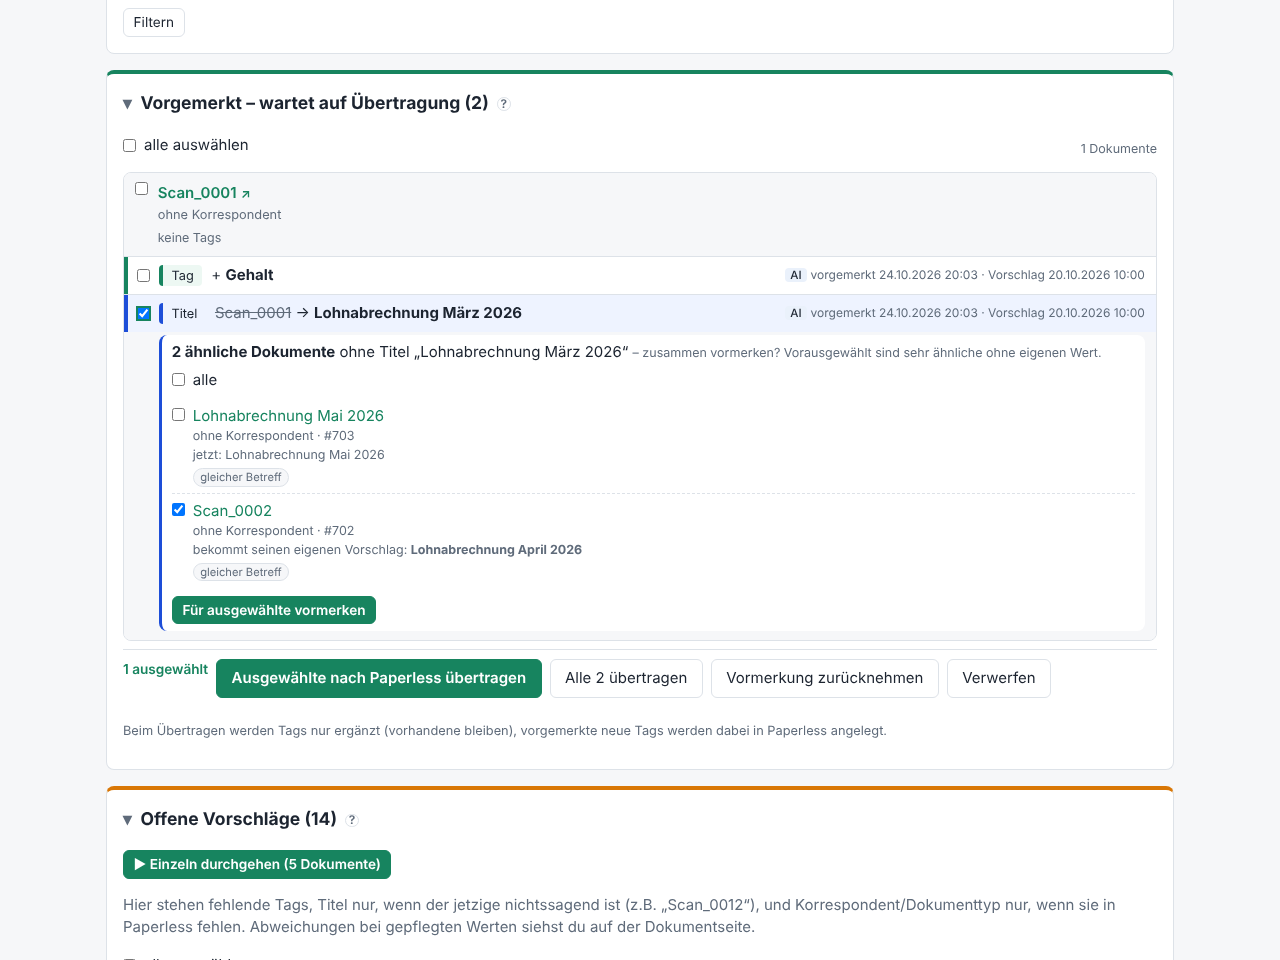
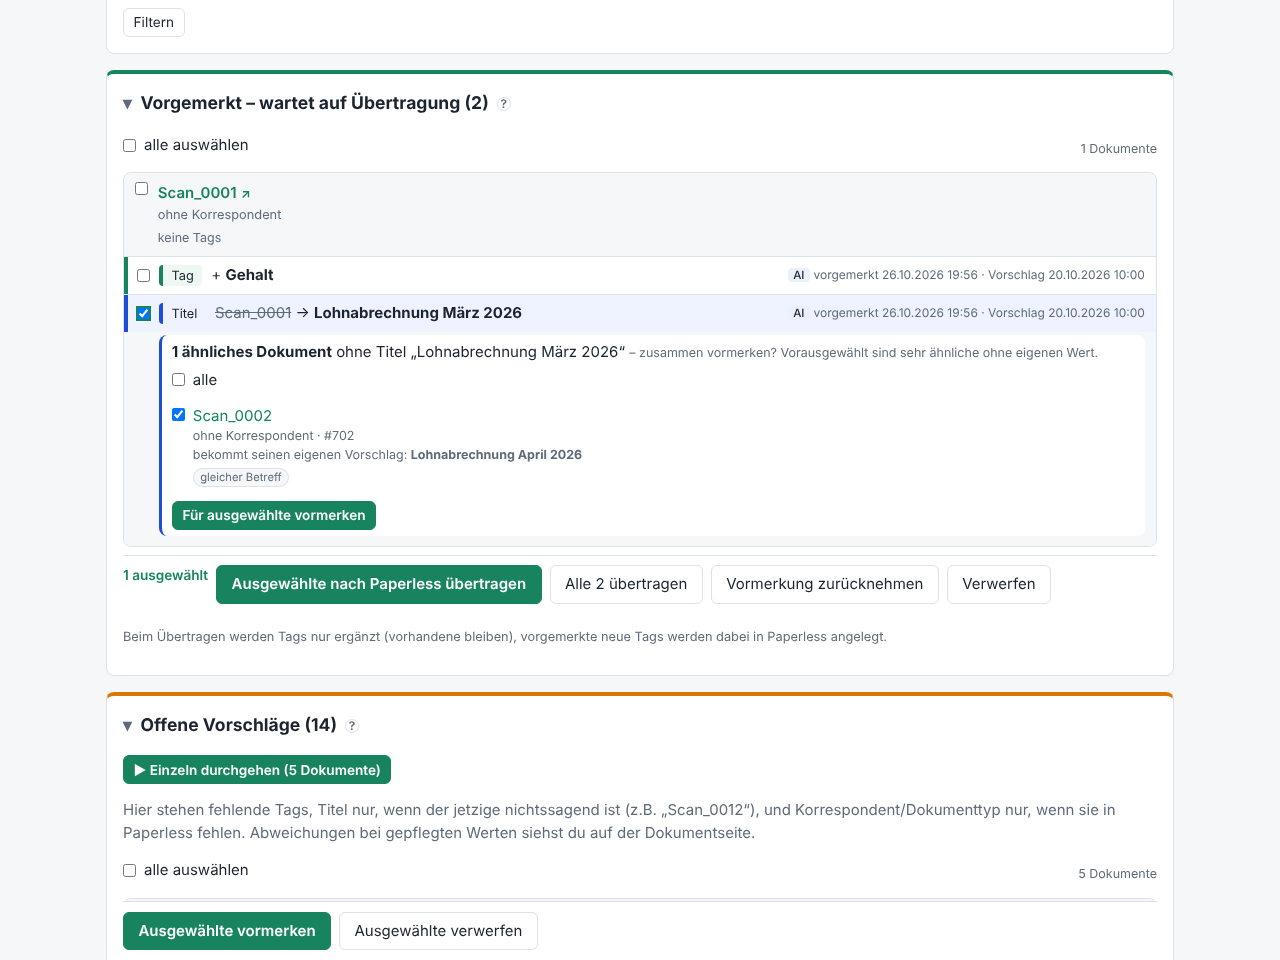
Ähnliche Dokumente (Titel): nur Dokumente mit eigenem Vorschlag oder nichtssagendem Titel
Dokumente mit sprechendem Titel und ohne eigenen Titelvorschlag erscheinen nicht mehr
(Übernehmen würde nur einen fremden Titel draufschreiben). „jetzt: …“ entfällt beim Titel,
weil er schon als Link dasteht; vorausgewählt sind nur Dokumente mit eigenem Vorschlag.

Claude-Session: https://claude.ai/code/session_01GZFJmjHzpJwZEudqzSRrzQ

diff --git a/app/templates/_similar.html b/app/templates/_similar.html
@@ -2,7 +2,7 @@
 {% set kind = 'tag' if it.key.startswith('tag:') else it.key %}
 {% if items %}
 <div class="similar-inner k-{{ kind }}">
-  <p class="similar-head"><strong>{{ items|length }}{{ '+' if more }} ähnliche Dokumente</strong> ohne {{ it.label }} „{{ it.new }}“
+  <p class="similar-head"><strong>{{ items|length }}{{ '+' if more }} {{ 'ähnliches Dokument' if items|length == 1 and not more else 'ähnliche Dokumente' }}</strong> ohne {{ it.label }} „{{ it.new }}“
     <small class="muted">– zusammen vormerken? Vorausgewählt sind sehr ähnliche{{ ' ohne eigenen Wert' if kind != 'tag' }}.
     {%- if it.state == 'open' %} Angehakte nimmt auch „Ausgewählte vormerken“ unten mit.{% endif %}</small></p>
   <input type="hidden" name="sim_{{ gid }}_src" value="{{ src.id }}">
@@ -19,6 +19,7 @@
         <a href="/documents/{{ f.doc.id }}" target="_blank" rel="noopener">{{ f.doc.title or ('#' ~ f.doc.id) }}</a>
         <small class="muted">{{ f.doc.correspondent or 'ohne Korrespondent' }}{% if f.doc.document_type %} · {{ f.doc.document_type }}{% endif %} · #{{ f.doc.id }}</small>
         {% if f.own_title %}<small class="sim-current">bekommt seinen eigenen Vorschlag: <strong>{{ f.own_title }}</strong></small>
+        {% elif kind == 'title' %}<small class="sim-current">bekommt: <strong>{{ it.new }}</strong></small>
         {% elif f.current %}<small class="sim-current">jetzt: {{ f.current }}</small>{% endif %}
         <span class="sim-reasons">{% for r in f.reasons %}<span class="pill">{{ r }}</span>{% endfor %}</span>
       </span></label></li>

diff --git a/app/metadata.py b/app/metadata.py
@@ -652,6 +652,8 @@ def similar(session: Session, doc: Document, key: str, value: str, limit: int = 
         if (d.meta_dismissed or {}).get(key) == value:
             continue  # für dieses Dokument schon verworfen
         own_title = _own_title(d) if key == "title" else None
+        if key == "title" and not own_title and title_words(current):
+            continue  # hat schon einen sprechenden Titel und keinen eigenen Vorschlag – nichts zu ändern
         _, corr, doctype = effective(d.tags, d.correspondent, d.document_type, d.meta_accepted)
         score, reasons = 0, []
         if key != "correspondent" and src_corr and corr == src_corr:
@@ -670,12 +672,12 @@ def similar(session: Session, doc: Document, key: str, value: str, limit: int = 
             score, reasons = score + 1, [*reasons, "gleicher Typ"]
         if score >= MIN_SIMILAR_SCORE:
             # Vorauswahl nur bei starker Ähnlichkeit und ohne vorhandenen anderen Wert
-            if key == "title":
-                has_other = not own_title and bool(title_words(current))  # sprechender Titel ohne eigenen Vorschlag
-            else:
-                has_other = bool(current)
-            found.append({"doc": d, "score": score, "reasons": reasons, "current": None if key.startswith("tag:") else current,
-                          "own_title": own_title, "preselect": score >= 4 and not has_other})
+            has_other = bool(current) and key != "title"  # Titel: hier nur eigene Vorschläge bzw. nichtssagende Titel
+            # Beim Titel steht der jetzige Titel schon als Link da – „jetzt: …“ wäre doppelt
+            found.append({"doc": d, "score": score, "reasons": reasons,
+                          "current": None if key.startswith("tag:") or key == "title" else current,
+                          "own_title": own_title,
+                          "preselect": score >= 4 and not has_other and (key != "title" or bool(own_title))})
     found.sort(key=lambda f: (-f["score"], -f["doc"].id))
     return {"items": found[:limit], "more": max(0, len(found) - limit)}
 

diff --git a/tests/test_metadata.py b/tests/test_metadata.py
@@ -409,7 +409,8 @@ def test_similar_by_nearly_same_title_without_correspondent(db):
         assert set(tag) == {2, 3, 4} and tag[2]["preselect"] and tag[3]["preselect"] and not tag[4]["preselect"]
         title = {f["doc"].id: f for f in metadata.similar(s, src, "title", "Lohnabrechnung März 2026")["items"]}
         assert title[2]["own_title"] == "Lohnabrechnung April 2026" and title[2]["preselect"]
-        assert not title[3]["preselect"]  # sprechender Titel ohne eigenen Vorschlag wird nicht überschrieben
+        assert 3 not in title  # sprechender Titel ohne eigenen Vorschlag: nichts zu ändern, nicht in der Liste
+        assert title[2]["current"] is None  # jetziger Titel steht schon als Link da
         assert metadata.apply_value(s, s.get(Document, 2), "title", "Lohnabrechnung März 2026")
         assert s.get(Document, 2).meta_accepted["title"]["value"] == "Lohnabrechnung April 2026"
 
